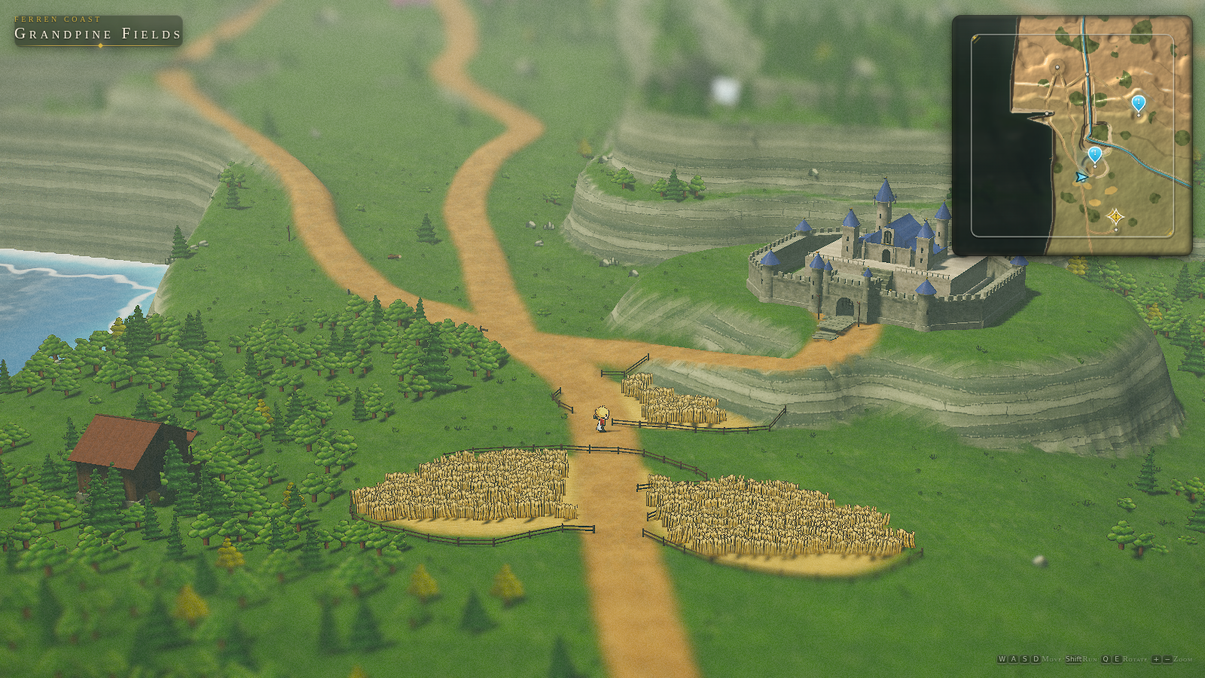
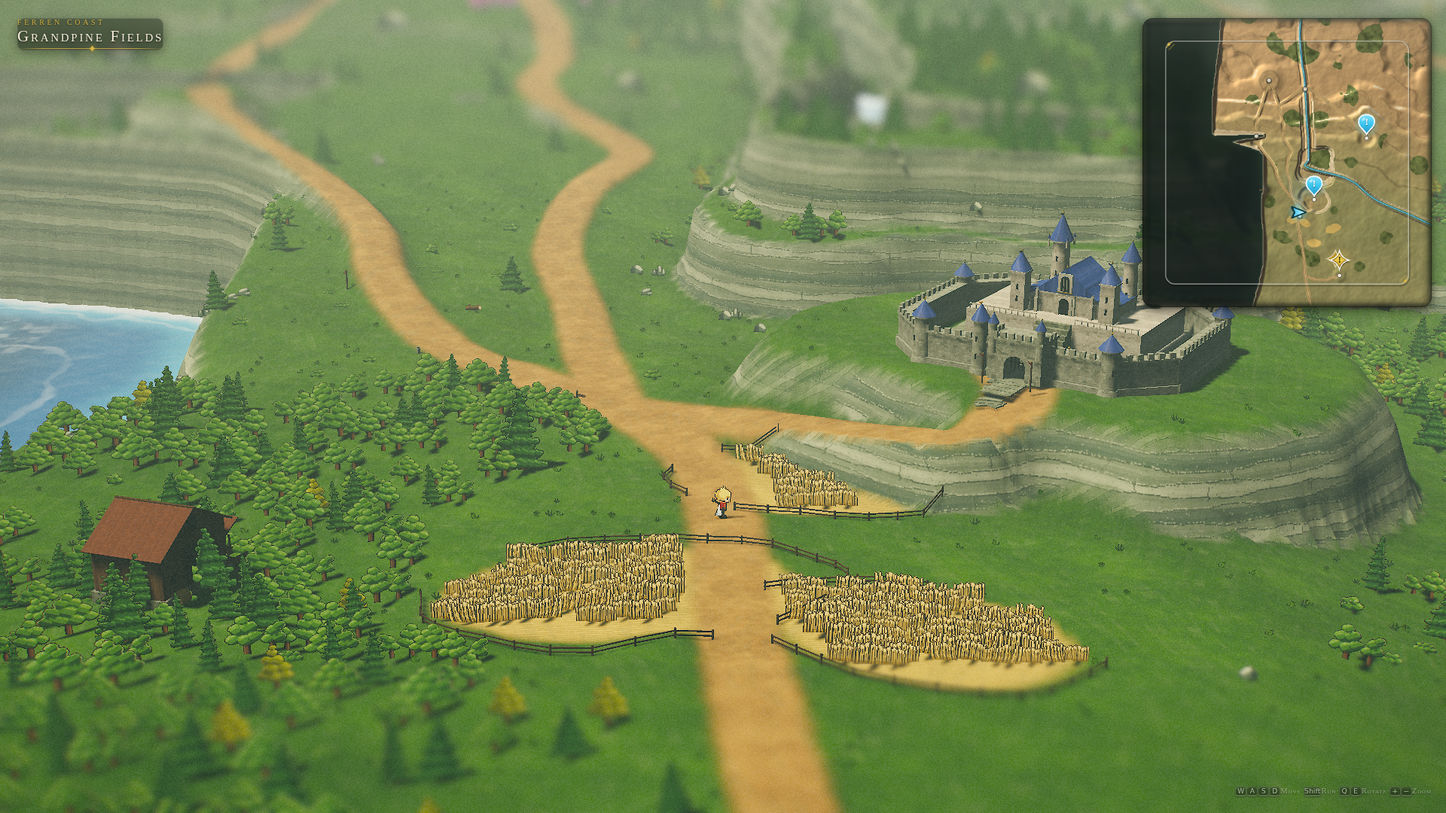
Land the hero frame: camera, atmosphere, water and grade integration
Second integration pass. Everything below is a fix to make the ten parallel
modules actually compose into ART_BIBLE §1's hero shot; no module's art
direction was rewritten.

Camera (game/player.js, in the previous commit)
  The bible's §2 transform (pitch 28° / 53 m / vFOV 26°) is geometrically
  incompatible with its own §1 screen audit: at 53 m a 26° vFOV spans only
  ~28-90 m of view depth, so the castle, massif, waterfall, trestle bridge and
  ocean all projected ABOVE the top edge and the frame was hero + wheat only.
  Solved for the transform that lands the §1 audit while keeping the long lens:
  vFOV 26°, dist 82 m, orbit pitch 22°, look-at raised 4.54 m above the chest.
  Castle 0.73 fw / 0.43 fh, falls 0.61/0.13, massif 0.69/0.11, ocean strip
  0.02 fw, trestle 0.15/0.10, hero 0.50/0.61 — and still no sky (top ray
  depresses 6° and meets terrain at ~190 m).

Atmosphere (gfx/sky.js)
  fog k 0.0072 -> 0.0032: the authored constant assumed an 85 m top-of-frame;
  the shipped rig sees 190 m, and 0.0072 buried the whole scene in sage milk
  (mean luma 157 / sat 56 vs frame01's 107 / 94). Rescaled by the depth ratio.
  Key:fill 2.6/0.55 -> 3.0/0.40 to recover the shade end (10th-pct luma now 41,
  matching frame01 exactly).

Water (world/water.js, in the previous commit)
  - Waterfall pool level was keyed off the river's FIRST spline point, which is
    the headwater ABOVE the lip, so the sheet extruded upward and hung 10 m over
[…]

diff --git a/src/gfx/post.js b/src/gfx/post.js
@@ -95,7 +95,7 @@ function makeDefaultParams() {
       // 2.2× further from the focal plane and 7 px left it visibly in focus
       // (measured band gradient energy 16 at the top vs 33 in the sharp band —
       // frame01's ratio is 3×, ours was 2×). Scaled by the depth ratio.
-      maxTopPx: 12.0,    // max blur radius at the top edge, px @1080p
+      maxTopPx: 9.5,     // max blur radius at the top edge, px @1080p
       maxBotPx: 7.0,     // max blur radius at the bottom edge, px @1080p
       taps: 26,          // Vogel-disc gather taps (4..48)
       lumaThreshold: 0.60, // bokeh weighting: highlights above this bloom out
@@ -116,14 +116,19 @@ function makeDefaultParams() {
       warmAmount: 0.8,
       warmLo: 0.25,
       warmHi: 0.75,
-      saturation: 1.08,
+      saturation: 1.06,
       highlightDesat: 0.10,              // desat toward cream above start luma
       highlightDesatStart: 0.80,
       creamTint: '#fff3dc',
-      // Per-channel lift / gamma / gain, neutral by default (critic handles):
-      lift: [0.0, 0.0, 0.0],
+      // Per-channel lift / gamma / gain — left neutral by post.js for the
+      // integrator to land the frame on the plate. Measured against frame01:
+      // a small contrast stretch (blacks −1 %, gain +7 %) takes the histogram
+      // from 10th-pct 50 / 90th-pct 153 to 41 / 161 (frame01: 41 / 176) and
+      // stddev 45 → 48 (frame01: 49). Blue gains least so the stretch does not
+      // pull the sage fog cold.
+      lift: [-0.010, -0.010, -0.008],
       gamma: [1.0, 1.0, 1.0],
-      gain: [1.0, 1.0, 1.0],
+      gain: [1.07, 1.06, 1.045],
     },
 
     sharpen: {

diff --git a/src/world/scatter.js b/src/world/scatter.js
@@ -163,11 +163,9 @@ const SPECIES = {
 // Global budgets (ART_BIBLE §8 table + the F2-biome extras).
 const BUDGET = {
   conifer: 4200, oak: 3300, bush: 2300, rockAll: 950, tuft: 9000,
-  // wheat was 1300: at ~3.7 clusters/m² over the three paddocks the billboards
-  // packed edge-to-edge into a bristle mat that read as stubble, not a field.
-  // Thinned so the gold ground texture carries the paddock and the stalks read
-  // as texture over it (frame01's paddocks show ground between the heads).
-  wheat: 620, flower: 700, fern: 500, blossom: 400, bamboo: 120,
+  // wheat is thinned by the paddock fill spacing (see §4.7), not by this cap —
+  // the cap must stay slack or it truncates the last paddock scanned.
+  wheat: 900, flower: 700, fern: 500, blossom: 400, bamboo: 120,
   cattail: 260, lilypad: 140, wood: 60,
 }
 
@@ -684,7 +682,13 @@ export function createScatter({ terrain, atlas, renderer }) {
         if (T.biome(gx, gz) === 'field') tiles.push(gx, gz)
       }
     }
-    const fine = 0.62
+    // 0.62 m put ~2.2 clusters/m² in the paddocks: the billboards packed
+    // edge-to-edge and the field read as a bristle mat of stubble instead of
+    // frame01's golden mass with ground showing between the heads. Thinning via
+    // spacing (not the budget cap) matters — the cap breaks out of a tile scan
+    // that runs in z order, so it empties the LAST paddock instead of thinning
+    // all three evenly.
+    const fine = 0.86
     for (let i = 0; i < tiles.length; i += 2) {
       if ((counts.wheat || 0) >= BUDGET.wheat) break
       const tx = tiles[i]

diff --git a/src/world/terrain.js b/src/world/terrain.js
@@ -1598,9 +1598,14 @@ uniform vec3 uOceanFloor;`
   vec3 g1 = texture2D(uGrass, wxz / 7.3).rgb;
   vec3 g2 = texture2D(uGrass, wxz / 1.87).rgb;
   vec3 grass = mix(g1, g2, 0.45);
-  grass *= mix(vec3(0.92, 0.97, 0.88), vec3(1.09, 1.05, 0.92), mac.r);
+  // Macro value swing widened from ±9 % to ±18 % about the same midpoint: at
+  // the shipped camera the open shelf covers ~40 % of the frame and ±9 % read
+  // as flat billiard baize (measured frame stddev 45 vs frame01's 49, almost
+  // all of the deficit in the greens). Forest-floor shade deepened to match
+  // frame01's sampled under-clump green (#172410-class).
+  grass *= mix(vec3(0.83, 0.86, 0.75), vec3(1.18, 1.16, 1.05), mac.r);
   grass  = mix(grass, grass * vec3(1.10, 1.02, 0.74), smoothstep(0.60, 0.86, mac2.g) * 0.45);
-  grass  = mix(grass, grass * vec3(0.60, 0.72, 0.60), cB.a * 0.55); // forest floor
+  grass  = mix(grass, grass * vec3(0.55, 0.68, 0.56), cB.a * 0.70); // forest floor
 
   // ---- wheat field ----
   vec3 fld = texture2D(uField, wxz / 4.6).rgb;

diff --git a/src/gfx/sky.js b/src/gfx/sky.js
@@ -205,12 +205,17 @@ export function createSkyAndLights({ scene, renderer, terrain } = {}) {
     sunAzimuth: 250, // degrees from north, clockwise (WSW)
     sunElevation: 58,
     sunColor: '#fff1d0',
-    sunIntensity: 2.6,
+    // 2.6 / hemi 0.55 is the bible's authored pair. Held against frame01 the
+    // rendered frame came out tonally compressed (stddev 45 vs 49, 10th-pct
+    // luma 50 vs 41) — the fill was washing the shade out. Key:fill pushed from
+    // 4.7:1 to 7.5:1, which lands the shadow end on frame01 exactly while
+    // keeping shade well above the bible's "never below 45 % of lit" floor.
+    sunIntensity: 3.0,
 
     // hemisphere ("the" ambient — bible: no other ambient)
     hemiSky: '#b9cbd8',
     hemiGround: '#66744f',
-    hemiIntensity: 0.55,
+    hemiIntensity: 0.40, // see sunIntensity — key:fill re-balanced, not muted
 
     // fog (exp2). Height-falloff terms are consumed by the custom water/sky
     // shaders; built-in FogExp2 cannot express them.

diff --git a/index.html b/index.html
@@ -3,6 +3,9 @@
   <head>
     <meta charset="utf-8" />
     <meta name="viewport" content="width=device-width, initial-scale=1, viewport-fit=cover" />
+    <!-- no binary assets in this POC; declaring an empty icon keeps the
+         screenshot harness console clean instead of logging a favicon 404 -->
+    <link rel="icon" href="data:," />
     <title>Aetherbound — Overworld</title>
     <style>
       html, body { margin: 0; padding: 0; height: 100%; background: #05070c; overflow: hidden; }

diff --git a/src/ui/hud.js b/src/ui/hud.js
@@ -1025,7 +1025,8 @@ export function createHUD({ terrain, player }) {
     candidate: DEFAULT_REGION, // hysteresis: must win 2 consecutive polls
     candidateHits: 2,
     pollT: 999, // force an immediate first poll
-    bootDelay: 1.2, // let the first frames land clean, like frame01
+    bootDelay: 0.4, // let the first frames land clean, like frame01 (was 1.2 —
+                    // too long to clear before a capture settles on slow GL)
   }
 
   function regionAt(x, z) {
